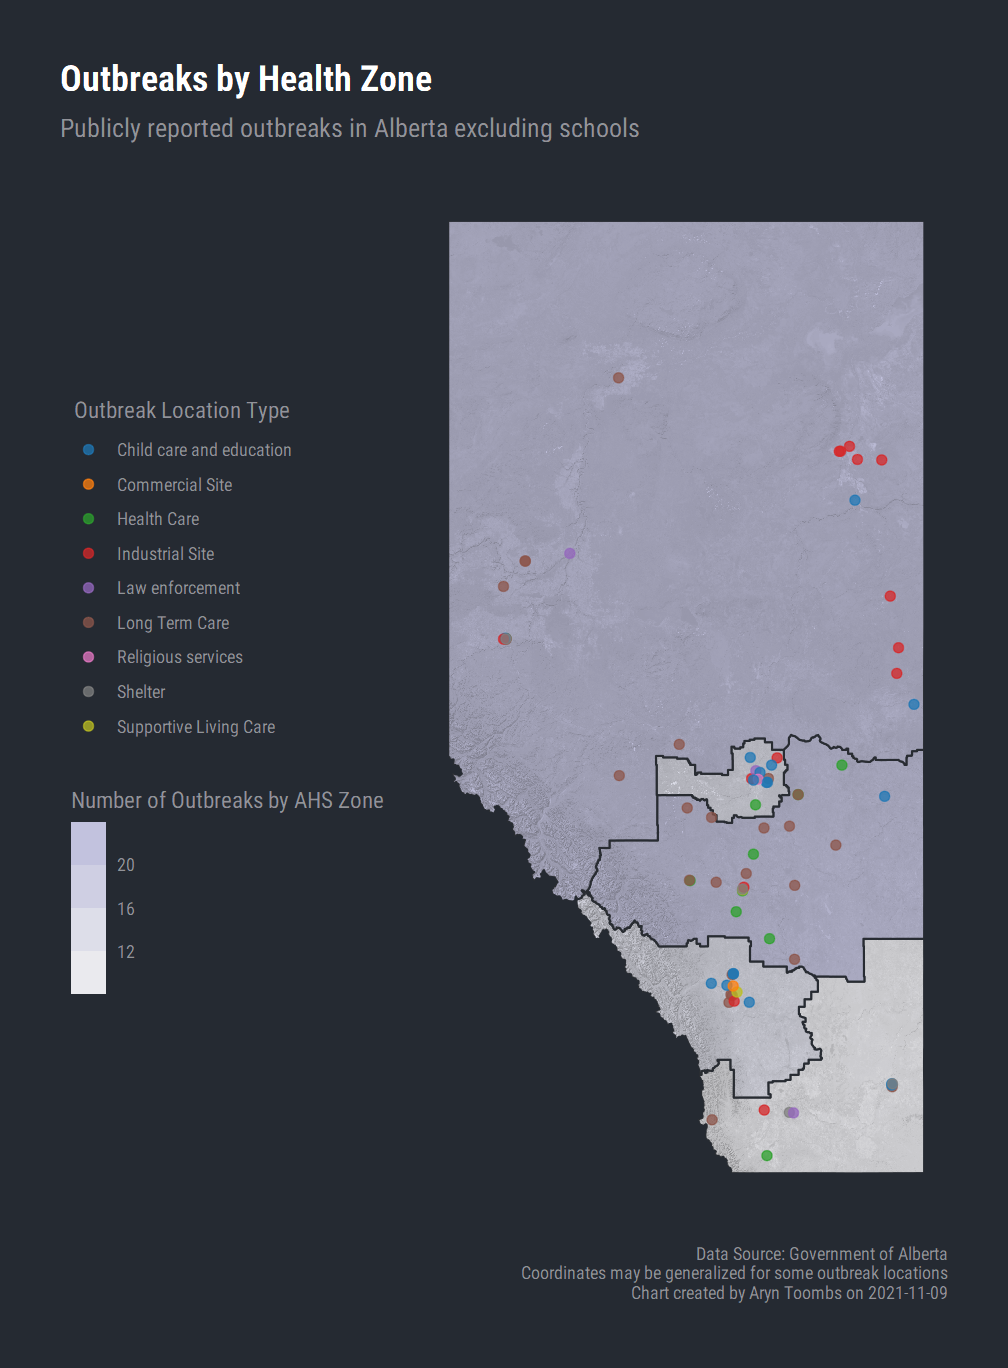
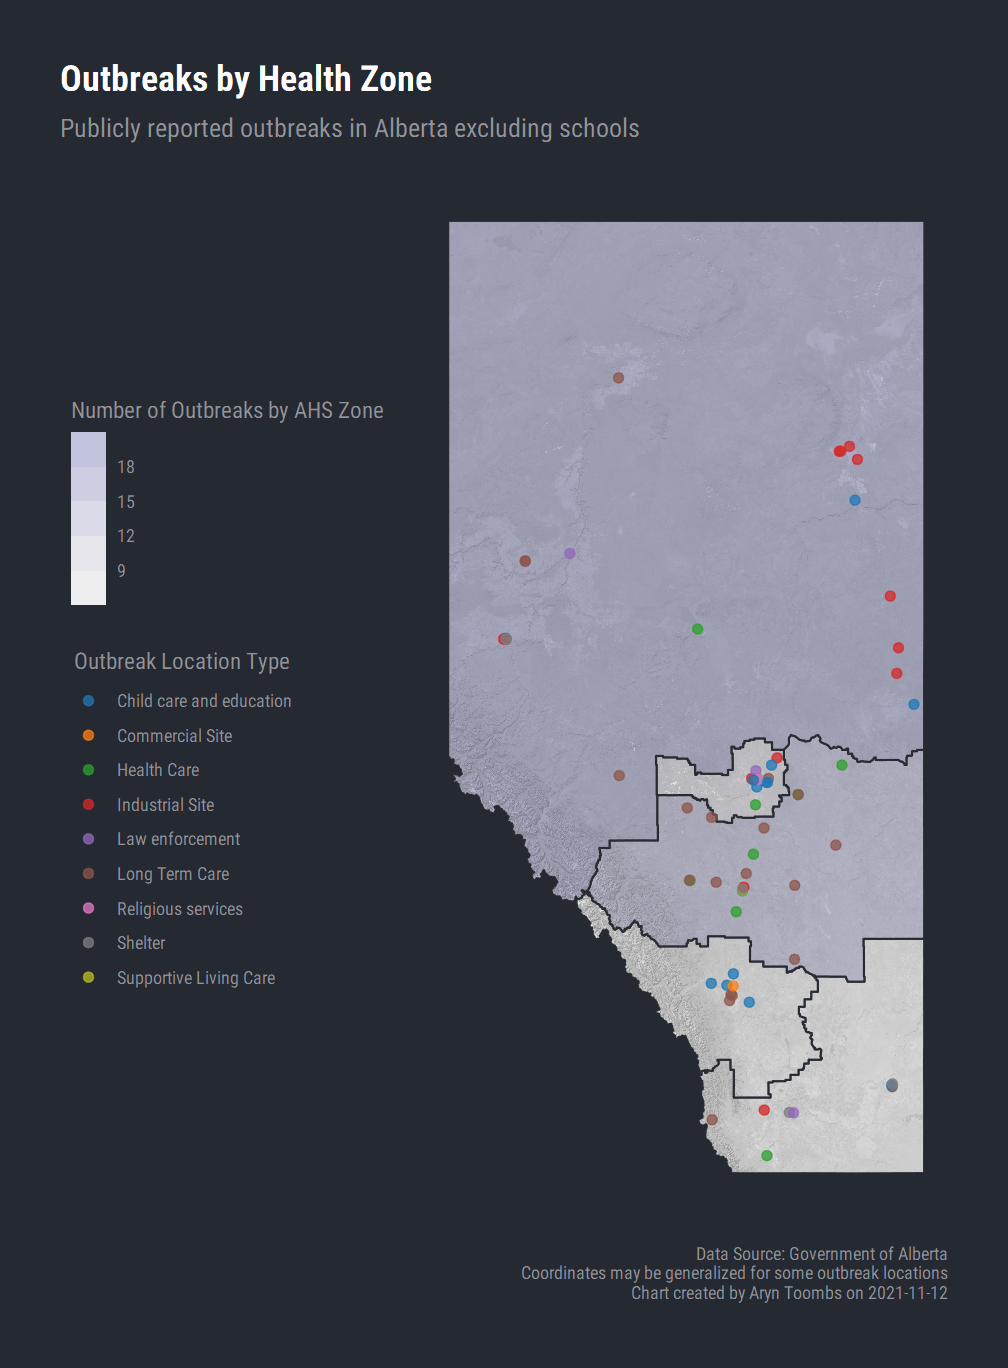
web

diff --git a/outbreaks/index.html b/outbreaks/index.html
@@ -168,7 +168,7 @@
       Calgary Zone
     </div>
     <div class="row box-bottom justify-content-center">
-      <h4>13</h4>
+      <h4>9</h4>
     </div>
   </div>
   <div class="col-sm ml-1 mr-1">
@@ -176,7 +176,7 @@
       Edmonton Zone
     </div>
     <div class="row box-bottom justify-content-center">
-      <h4>13</h4>
+      <h4>12</h4>
     </div>
   </div>
   <div class="col-sm ml-1 mr-1">
@@ -184,7 +184,7 @@
       South Zone
     </div>
     <div class="row box-bottom justify-content-center">
-      <h4>9</h4>
+      <h4>8</h4>
     </div>
   </div>
   <div class="col-sm ml-1 mr-1">
@@ -192,7 +192,7 @@
       Central Zone
     </div>
     <div class="row box-bottom justify-content-center">
-      <h4>21</h4>
+      <h4>18</h4>
     </div>
   </div>
   <div class="col-sm ml-1 mr-1">
@@ -200,12 +200,12 @@
       North Zone
     </div>
     <div class="row box-bottom justify-content-center">
-      <h4>23</h4>
+      <h4>21</h4>
     </div>
   </div>
 </div>
 <div class="row mb-3 pr-1 pt-1 justify-content-end">
-  <p class="m-1"><i class="bi bi-info-circle-fill"></i> Covid-19 outbreaks (not including schools, see below) current as of Tue, Nov 09, 2021. AHS non-school outbreak data updated on Tuesdays and Fridays.</p>
+  <p class="m-1"><i class="bi bi-info-circle-fill"></i> Covid-19 outbreaks (not including schools, see below) current as of Fri, Nov 12, 2021. AHS non-school outbreak data updated on Tuesdays and Fridays.</p>
 </div>
   <div class="row pl-3">
     <h4 class="body-display">Outbreak Charts</h4>
